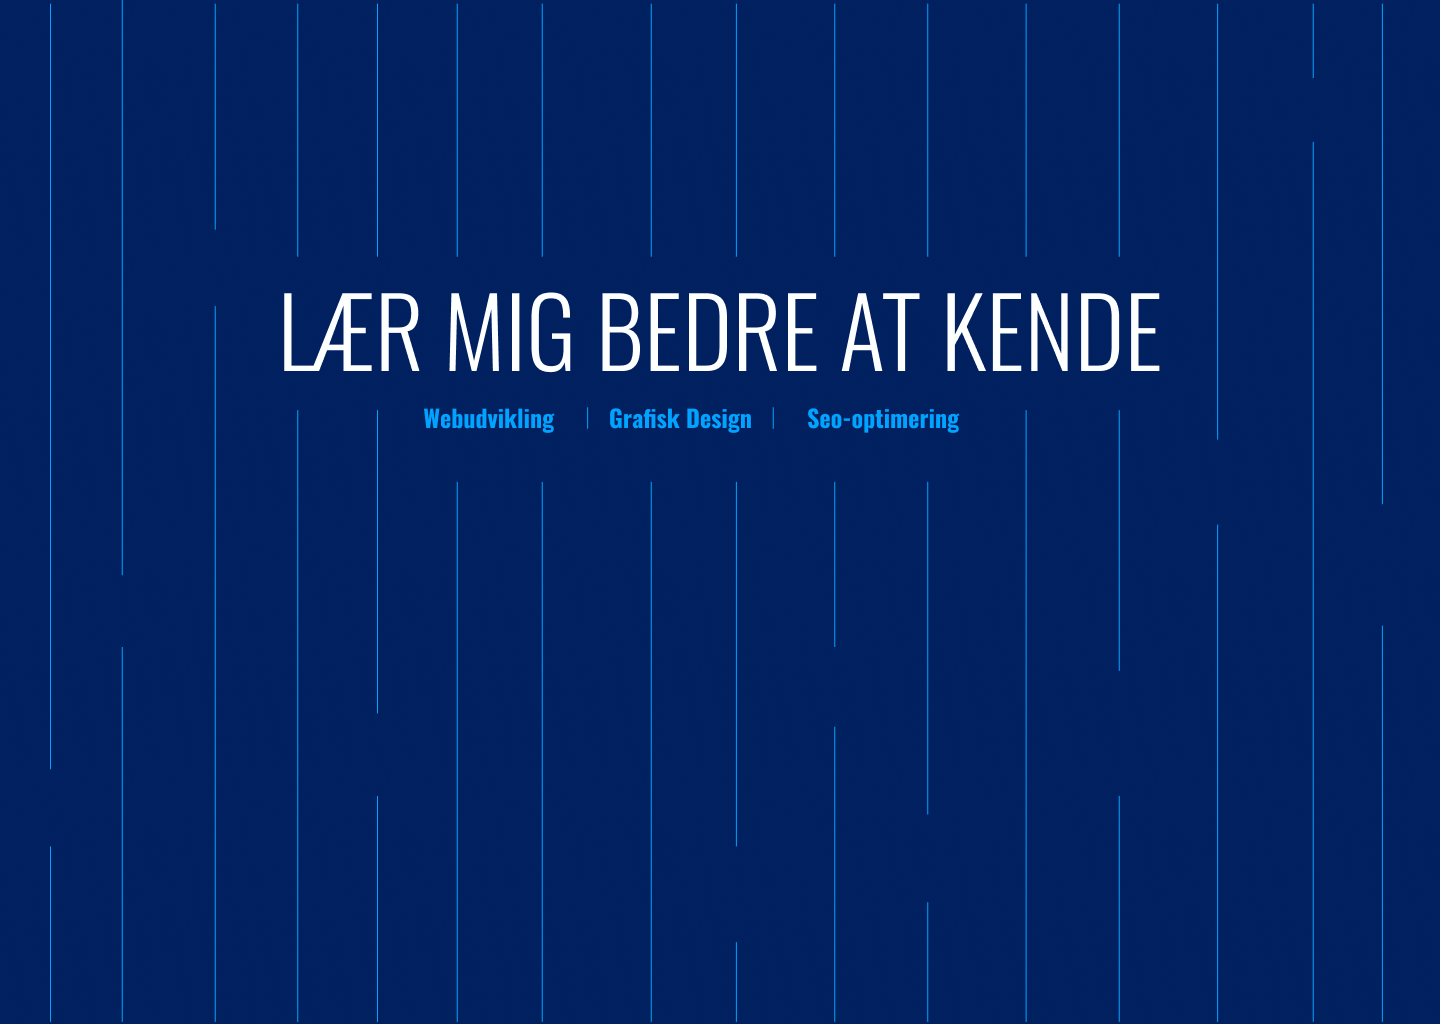
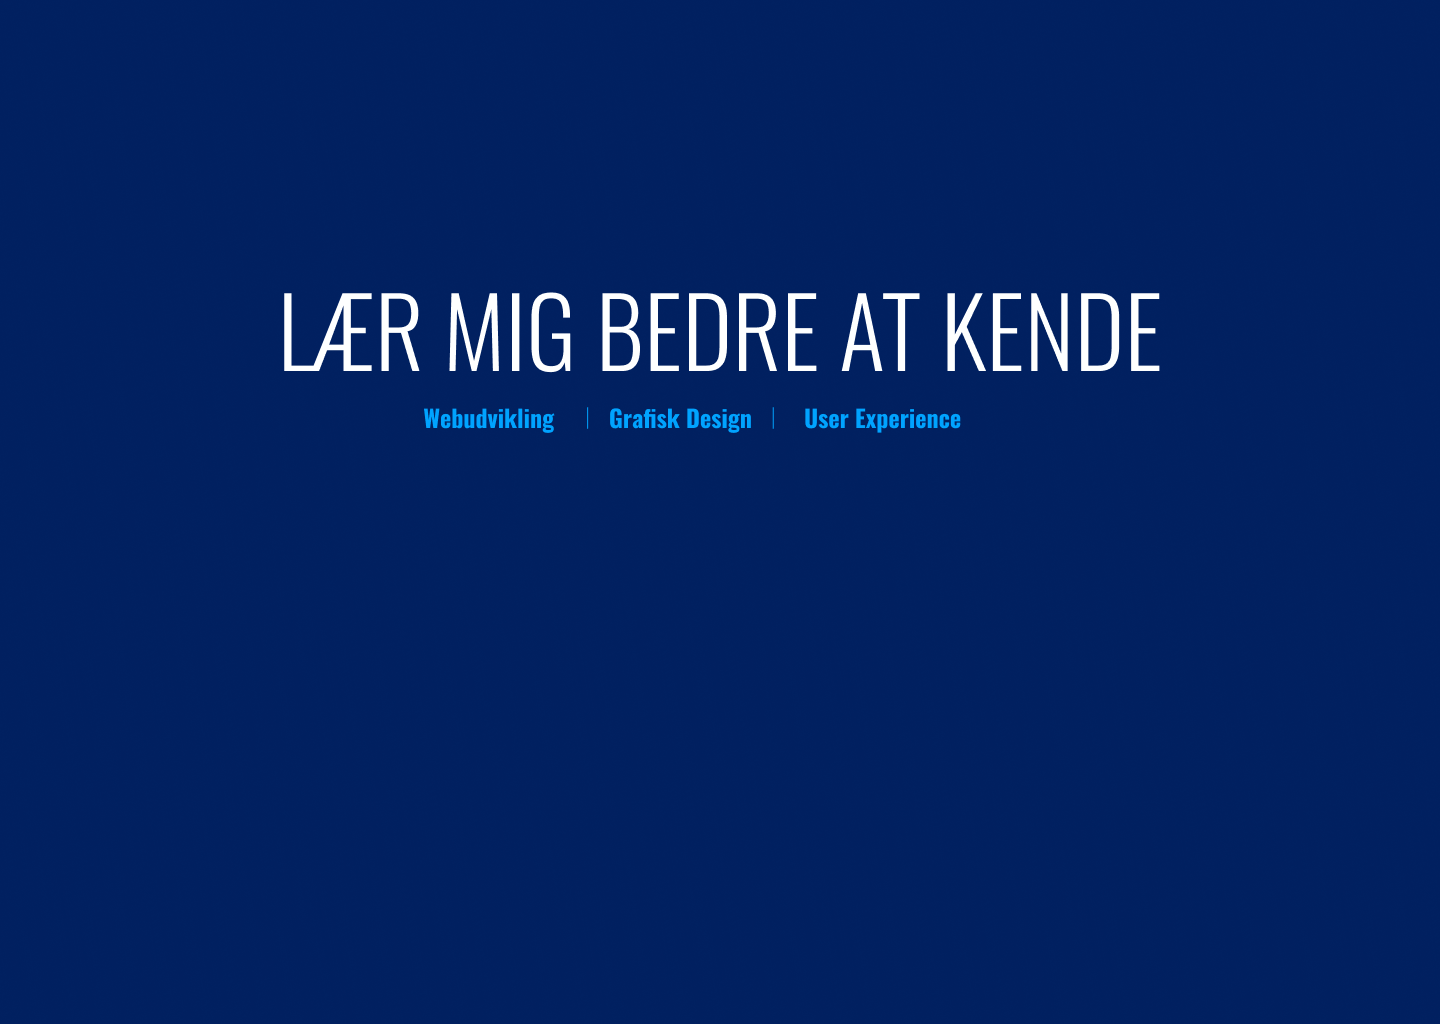
ændringer

Changed region(s): [[0.5625, 0.4062, 0.6875, 0.4375]]

diff --git a/portfolio 2024/index.html b/portfolio 2024/index.html
@@ -9,47 +9,35 @@
     <link rel="stylesheet" href="style.css">
 </head>
 <body>
-    
-
-
-
     <main>
         <div id="firstscreen" class="hide">
             <img class="screen1" src="img/screen1.png">
             <div class="cirkel"></div>
-            </div>
         </div>
+        
         <div id="secondscreen" class="hide">
             <img class="screen2" src="img/screen2.png">
+            <img class="striber" src="img/striber.png">
         </div>
 
-
-        <section id="about">
-            <h1>
-                Victoria Vevest
-            </h1>
-            <h2>
-                Frontend Udvikler, studerende
-            </h2>
+        <section id="about" class="hide">
+            <h1>Victoria Vevest</h1>
+            <h2>Frontend Udvikler, studerende</h2>
             <p>
-                Lorem ipsum dolor sit amet, consectetur adipiscing elit, sed do eiusmod tempor incididunt ut labore et dolore magna aliqua. Ut enim ad minim veniam, quis nostrud exercitation ullamco laboris nisi ut aliquip ex ea commodo consequat. Lorem ipsum dolor sit amet, consectetur adipiscing elit, sed do eiusmod tempor incididunt ut labore et dolore magna aliqua. Ut enim ad minim veniam, quis nostrud exercitation ullamco laboris nisi ut aliquip ex ea commodo consequat. 
+                Lorem ipsum dolor sit amet, consectetur adipiscing elit, sed do eiusmod tempor incididunt ut labore et dolore magna aliqua. 
             </p>
             <div class="container-vid">
-                <video class="video1" autoplay="autoplay" muted="muted" loop="loop">
-                    <source src="video/video10.mp4" type="video/mp4" alt="En video af mig i forskellige scenarier der besrkiver min personlighed">
-                  Your browser does not support the video tag.
+                <video class="video1" autoplay muted loop>
+                    <source src="video/video10.mp4" type="video/mp4" alt="En video af mig i forskellige scenarier der beskriver min personlighed">
+                    Your browser does not support the video tag.
                 </video>
             </div>
         </section>
-
+        
         <section class="experience">
             <div class="experience-cards" id="experienceCards">
-
-                <div class="experience-img" id="experienceImg">
-
-                </div>
+                <div class="experience-img" id="experienceImg"></div>
             </div>
-
         </section>
 
         <section class="project">
@@ -61,37 +49,21 @@
                 <button id="filterAll">All</button>
             </div>
             <div class="project-cards" id="projectCards">
-    
-                <div class="project-img" id="projectImg">
-    
-                </div>
+                <div class="project-img" id="projectImg"></div>
             </div>
         </section>
-
-        <div class="btn"></div>
 
         <section id="contactscreen" class="hide">
             <div class="contact">
                 <div class="flyver"></div>
             </div>
         </section>
-
-
     </main>
 
     <footer>
-        <P>© 2024 VICTORIA VEVEST</P>
+        <p>© 2024 VICTORIA VEVEST</p>
     </footer>
 
     <script src="style.js"></script>
-
-
-
-
-
-
-
-
-
 </body>
 </html>

diff --git a/portfolio 2024/style.js b/portfolio 2024/style.js
@@ -1,3 +1,4 @@
+
 // Opretter en class med en constructor til mine objekter
 class ScreenManager {
     constructor() {
@@ -21,17 +22,19 @@ class ScreenManager {
         this.hideAllScreens();
 
         this.firstScreen.classList.remove("hide");
-        this.circle.classList.add("pulse");
 
         // Fjerner zoom-klassen, så den kan aktiveres igen
         this.circle.classList.remove("zoom");
 
-        this.circle.addEventListener("mouseover", () => this.getSecondScreen());
+        // Starter zoom-animationen igen
+        setTimeout(() => {
+            this.getSecondScreen();
+        }, 1000); 
     }
 
     getSecondScreen() {
         console.log("getSecondscreen");
-        // Adder zoom-klassen igen
+        // Adder zoom-klassen
         this.circle.classList.add("zoom");
 
         setTimeout(() => {
@@ -47,10 +50,17 @@ class ScreenManager {
         console.log("Fade out secondscreen");
         this.secondScreen.classList.add("fade-up");
 
+        // Finder .striber classen og tilføjer fade-up-slow animation
+        const striber = this.secondScreen.querySelector(".striber");
+        if (striber) {
+            console.log("Striber elementet blev fundet", striber);
+            striber.classList.add("fade-up-slow");  
+        }
+
         setTimeout(() => {
             this.hideAllScreens();
             this.aboutScreen.classList.remove("hide");
-        }, 1000);
+        }, 1000);  
     }
 
     hideAllScreens() {
@@ -62,7 +72,7 @@ class ScreenManager {
 
     windowResize() {
         let widthScreen = document.querySelector("main").clientWidth;
-        // Sørger for and skærmen altid resizer 
+        // Sørger for at skærmen altid resizer 
     }
 }
 

diff --git a/portfolio 2024/style.css b/portfolio 2024/style.css
@@ -68,7 +68,6 @@ p{
 }
 
 
-
 .screen1{
     object-fit: cover;
     width: 100vw;
@@ -77,8 +76,8 @@ p{
 }
 
 .cirkel{
-    width: 10rem;
-    height: 10rem;
+    width: 3rem;
+    height: 3rem;
     background-color: var(--primary);
     position: absolute;
     border-radius: 50%;
@@ -93,6 +92,16 @@ p{
     object-fit: cover;
     width: 100vw;
     height: 100vh;
+    position: relative;
+}
+
+.striber{
+    object-fit: cover;
+    width: 100vw;
+    height: 100vh;
+    position: absolute;
+    top: 0;
+    left: 0;
 }
 
 .video1 {
@@ -117,10 +126,13 @@ p{
 /*-----------Animationer-----------*/
 
 /* Zoom effekt */
+.cirkel {
+    transition: transform 1.5s ease; /* Dette gør zoom-animeringen glidende */
+}
+
 .zoom {
-    transform: scale(15); /* Zoom 15 gange ind */
-    transition: transform 0.5s ease-in-out; /* Animation over 0.5 sekunder */
-  }
+    transform: scale(50); /* Juster skalaen som ønsket */
+}
   
   /* Fade væk og flyt opad */
   .fade-up {
@@ -129,25 +141,14 @@ p{
     transition: opacity 1s ease-in-out, transform 1s ease-in-out; /* Animationens varighed og timing */
   }
 
-
-.pulse  {
-    animation-name: pulse;
-    animation-duration: 3s;
-    animation-iteration-count: infinite;
-    animation-timing-function: linear;
+  .fade-up-slow {
+    opacity: 0;
+    transform: translateY(-300px);
+    transition: opacity 1s ease, transform 2s ease; /* Langsommere fade-up */
 }
 
-@keyframes pulse {
-    0% {
-        scale: 1;
-    }
-    50% {
-        scale: 1.2;
-    }
-    100% {
-        scale: 1;
-    }
-}
+
+
 
 .hide
   {
